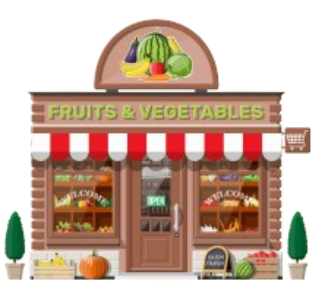
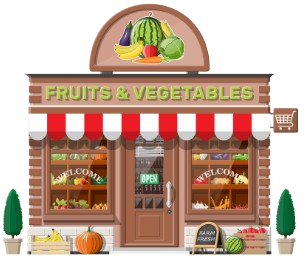
improved vaasippom pics

diff --git a/page33.html b/page33.html
@@ -183,12 +183,12 @@ body{
 }
 
 
-.card-image{
-    width:250px;
-    height:auto;
-    object-fit:contain;
+/* Make the pictures larger */
+.card-image {
+    width: 300px;
+    height: auto;
+    object-fit: contain;
 }
-
 
 .card-content{
     line-height:1.9;
@@ -552,15 +552,14 @@ body{
     ========================= */
 
     .card-image {
-        width: clamp(55px, 17vw, 78px);
-
-        max-height: 68px;
+        width: 110px;
+        max-width: 110px;
+        max-height: 100px;
         height: auto;
-
         object-fit: contain;
-
-        flex: 0 0 auto;
+        flex: 0 0 110px;
     }
+
 
     /* =========================
        CARD TEXT

diff --git a/page35.html b/page35.html
@@ -553,16 +553,13 @@ body{
     ========================= */
 
     .card-image {
-        width: clamp(55px, 17vw, 78px);
-
-        max-height: 68px;
+        width: 110px;
+        max-width: 110px;
+        max-height: 100px;
         height: auto;
-
         object-fit: contain;
-
-        flex: 0 0 auto;
+        flex: 0 0 110px;
     }
-
     /* =========================
        CARD TEXT
     ========================= */

diff --git a/page37.html b/page37.html
@@ -553,16 +553,13 @@ body{
     ========================= */
 
     .card-image {
-        width: clamp(55px, 17vw, 78px);
-
-        max-height: 68px;
+        width: 110px;
+        max-width: 110px;
+        max-height: 100px;
         height: auto;
-
         object-fit: contain;
-
-        flex: 0 0 auto;
+        flex: 0 0 110px;
     }
-
     /* =========================
        CARD TEXT
     ========================= */

diff --git a/page34.html b/page34.html
@@ -553,14 +553,12 @@ body{
     ========================= */
 
     .card-image {
-        width: clamp(55px, 17vw, 78px);
-
-        max-height: 68px;
+        width: 110px;
+        max-width: 110px;
+        max-height: 100px;
         height: auto;
-
         object-fit: contain;
-
-        flex: 0 0 auto;
+        flex: 0 0 110px;
     }
 
     /* =========================

diff --git a/page36.html b/page36.html
@@ -552,14 +552,12 @@ body{
     ========================= */
 
     .card-image {
-        width: clamp(55px, 17vw, 78px);
-
-        max-height: 68px;
+        width: 110px;
+        max-width: 110px;
+        max-height: 100px;
         height: auto;
-
         object-fit: contain;
-
-        flex: 0 0 auto;
+        flex: 0 0 110px;
     }
 
     /* =========================
